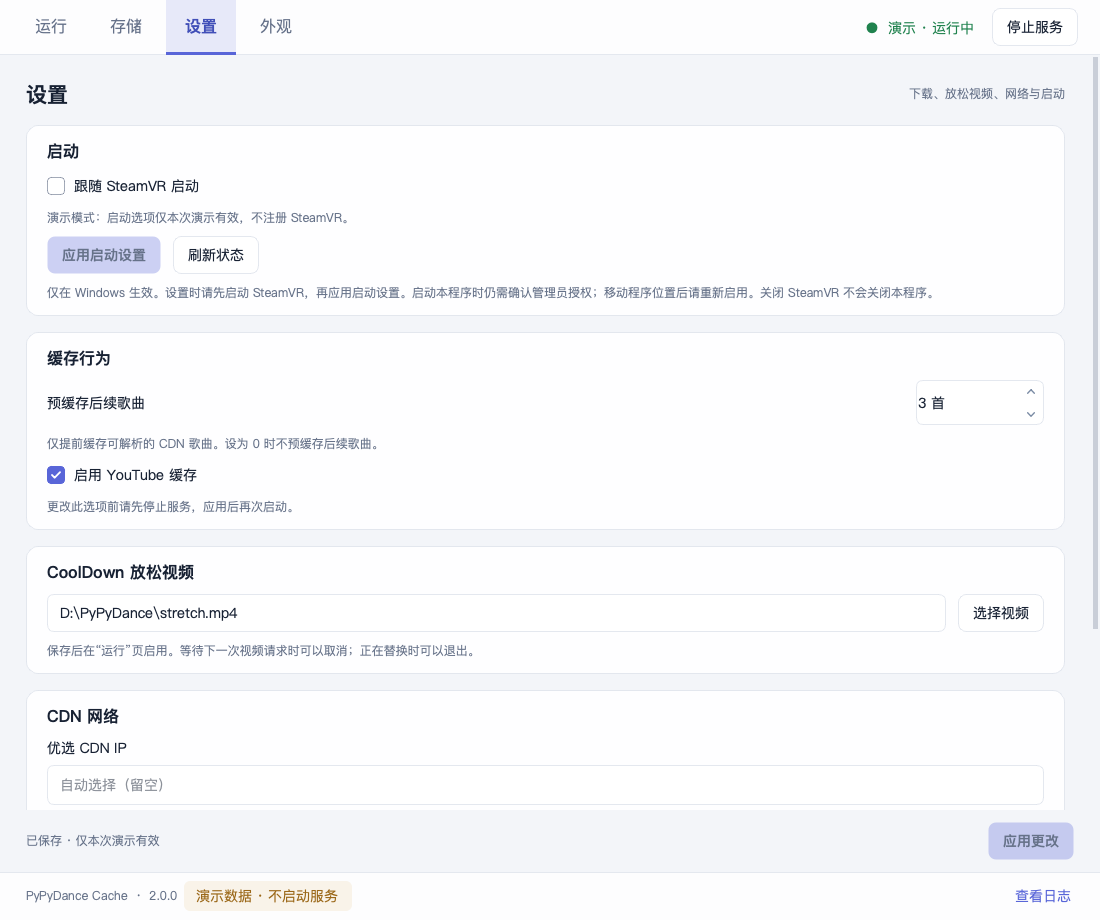
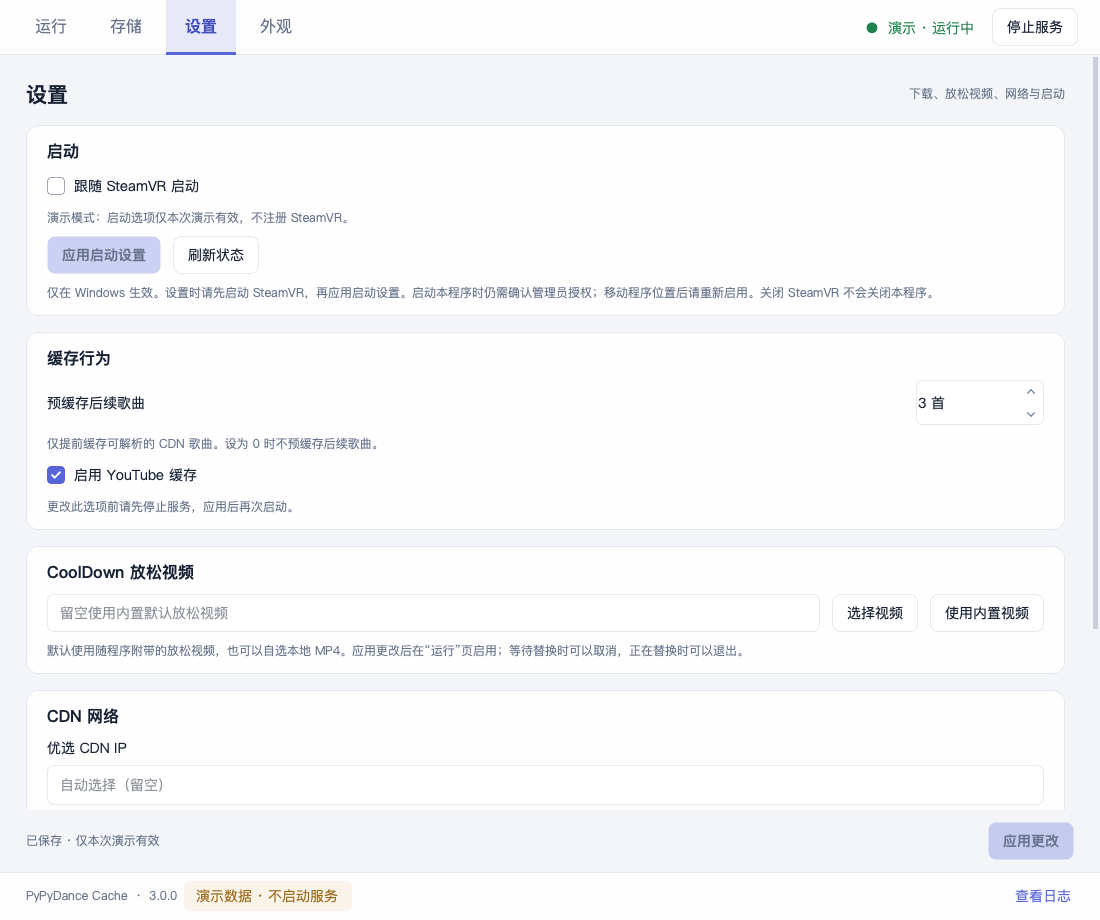
docs: rewrite Windows README with accurate fork comparison [skip ci]

Changed region(s): [[0.0309, 0.7, 0.68, 0.7304], [0.0618, 0.6391, 0.2164, 0.6696], [0.7727, 0.6391, 0.8964, 0.6696]]

diff --git a/README.md b/README.md
@@ -1,170 +1,163 @@
-# PyPyDance Cache 3.0.0
+# PyPyDance Cache · Windows 版
 
 <img src="assets/app-icon.png" width="96" alt="PyPyDance Cache PY 图标">
 
-VRChat PyPyDance 跳舞房视频本地缓存工具，面向 Windows。保留原有缓存核心与命令行入口，使用 Qt for Python 重构桌面界面。
+为 VRChat 的 PyPyDance 跳舞房提供本地视频缓存、队列预加载和永久曲库管理。**本软件仅支持 Windows x64。**
 
-**原作者：Bilibili @鲨鲨比亚Sharkspeare**
+本 Fork 基于 [oreochromis/pypydance-video-cache](https://github.com/oreochromis/pypydance-video-cache) 继续开发，原作者为 **Bilibili @鲨鲨比亚Sharkspeare**。保留原有 Python 缓存核心与命令行入口，使用 Qt for Python 重构桌面界面，并增加日常使用功能。
 
-**上游：[oreochromis/pypydance-video-cache](https://github.com/oreochromis/pypydance-video-cache)**
+**[下载 v3.0.0 正式版](https://github.com/Xiaoyu12-CPU/pypydance-video-cache/releases/tag/v3.0.0)** · **[直接下载 Windows x64 ZIP](https://github.com/Xiaoyu12-CPU/pypydance-video-cache/releases/download/v3.0.0/PyPyDanceCache-windows-x64.zip)**
 
-**当前 fork：[Xiaoyu12-CPU/pypydance-video-cache](https://github.com/Xiaoyu12-CPU/pypydance-video-cache)**
+## 下载与使用
 
-开发基线：上游提交 `5efd712073d696e180ffeedfbfe51afd293f702e`。
+1. 下载 `PyPyDanceCache-windows-x64.zip`，将整个 `PyPyDanceCache` 文件夹解压到当前账户可写的目录。
+2. 双击 `PyPyDanceCache.exe`，确认 Windows 管理员授权。程序启动后会自动开启缓存服务，无需安装 Python。
+3. 服务显示运行中后，进入 VRChat 的 PyPyDance 房间正常点歌。
+4. 根据需要，在“存储”页设置永久曲库，在“设置”页调整预加载数量和 CDN，在“外观”页调整主题。
+5. 使用结束后正常关闭窗口，程序会停止服务并尝试还原本程序添加的 hosts 设置。若提示恢复失败，请保留窗口和日志，按提示重试。
 
-原理参考：
+**必须保留 exe 旁的 `_internal` 等全部文件，不能只复制 exe。**默认放松视频、程序图标及运行依赖都在完整目录中。程序未签名，管理员授权窗口可能显示未知发布者。
 
-- [kiyonya/why-my-dance-video-cannot-play](https://github.com/kiyonya/why-my-dance-video-cannot-play)
-- [wzhqwq/VRCDancePreloader](https://github.com/wzhqwq/VRCDancePreloader)
+只想先看界面，可以双击 `打开演示.bat`。演示使用示例数据，不启动真实缓存服务、不修改 hosts，也不接入 VRChat。
 
-## 界面与功能
+## 相比 Fork 前更新了什么？
 
-四个页面将日常状态、文件保存和个性化选项分开，顶部保留服务状态与启停入口。
+对比基线为原项目的 [V1.2 源码提交 `5efd712`](https://github.com/oreochromis/pypydance-video-cache/tree/5efd712073d696e180ffeedfbfe51afd293f702e)，当前版本为本 Fork 的 `v3.0.0`。
 
-| 页面 | 内容 |
+原版已经具备本地缓存、队列预加载、永久曲库、YouTube 源缓存、CDN 测速、曲库维护和 Cool Down。本 Fork 在这些能力上继续改进，主要变化如下：
+
+| 项目 | Fork 前 | 当前版本 |
+| --- | --- | --- |
+| 桌面界面 | tkinter 单窗口，设置、队列、下载和日志集中展示 | Qt for Python 重构，分为“运行／存储／设置／外观”四页 |
+| 外观设置 | 基础控件样式 | 默认浅蓝布局，支持深色、自定义主题、背景、透明度、缩放和密度，自动保存到本机 |
+| CDN 优选 | 已有快速测速、扩大范围抽样测速及推荐 IP | 列表展示结果，可自行选择使用；新增本机常用 CDN 收藏，支持去重、保留和删除 |
+| SteamVR 联动 | 手动打开程序 | 新增“跟随 SteamVR 启动”选项，保留管理员授权流程 |
+| Cool Down | 已有功能，需要自行选择放松视频 | 随包提供默认视频，保留自选能力，并提供切回内置视频的入口 |
+| 运行信息 | 已有歌曲队列、下载进度、速度和日志 | 分开呈现歌曲、下载及服务状态，补充失败、取消和恢复提示，支持复制、导出日志 |
+| 设置保存 | 在原窗口中编辑并保存 | 草稿与应用分离，加强参数校验、保存失败提示及目录保护，避免测速操作顺带提交其他设置 |
+| 程序图标 | 原有图标 | 新 PY 对话框图标，覆盖应用、窗口及 Windows exe，提供七种图标尺寸 |
+| 构建与分发 | 原有单文件 exe 打包方式 | 完整目录 ZIP，附 SHA-256 与构建报告，发布前执行自动测试和实际打包程序检查 |
+
+新版 GUI 使用 Qt、Pillow 和 OpenVR 等依赖，分发方式改为完整目录包；原有命令行缓存入口继续保留。
+
+## 当前界面
+
+下图使用程序的演示数据，默认采用浅蓝布局。
+
+![运行页](docs/screenshots/run-light.png)
+
+其他页面：[存储](docs/screenshots/storage.png) · [设置](docs/screenshots/settings.png) · [外观](docs/screenshots/appearance.png) · [深色界面](docs/screenshots/run-dark.png)
+
+| 页面 | 主要用途 |
 | --- | --- |
-| **运行** | 最近识别的歌曲队列、缓存任务与结果、Cool Down 放松操作、诊断与日志 |
-| **存储** | 临时缓存容量、永久曲库目录与来源开关、目录入口、映射重建和文件大小检查 |
-| **设置** | 预加载数量、YouTube 源缓存、网络测速与优选 IP、放松视频配置 |
-| **外观** | 浅色/深色与自定义主题、背景图片、配色、界面缩放与密度 |
+| 运行 | 查看歌曲队列、下载任务、缓存结果、服务状态、Cool Down 和日志 |
+| 存储 | 设置临时缓存与永久曲库，管理保存规则，重建映射和检查视频大小 |
+| 设置 | 调整预加载、YouTube 缓存、CDN 优选、默认放松视频和 SteamVR 联动 |
+| 外观 | 调整浅色／深色主题、自定义配色、背景、透明度、缩放和密度 |
 
-业务配置编辑后通过**应用更改**提交。修改 YouTube 缓存开关或保存目录前，需要先停止服务；修改目录时还需等待后台下载和曲库任务结束。应用后再次启动服务。外观调整立即预览并自动保存，与业务配置分开。
+## 常用功能
 
-正式版默认使用浅蓝布局，提供浅色、深色和自定义主题。主题配色、背景导入、透明度、缩放和密度继续可用，个人调整保存在本机。
+### 本地缓存与永久曲库
 
-为减小下载体积，正式版不再附带“小余12主题”和原背景。升级保留已有主题配置和个人导入图片；若旧主题的背景仅来自测试包资源且本机没有副本，将回退到主题底色，可重新导入背景。
+视频请求命中本地缓存时，直接从硬盘提供；未命中时回源下载，并按配置尝试缓存。程序读取 VRChat 日志中的歌曲队列，提前准备可解析的 CDN 歌曲。
 
-## 下载正式版
+需要长期保留视频时，在“存储”页填写曲库目录，并开启对应来源的永久保存。符合条件的视频会按歌曲编号保存，例如 `3528.mp4`。改变曲库目录只影响后续保存位置，不会自动搬迁已有文件。
 
-前往 [v3.0.0 正式版](https://github.com/Xiaoyu12-CPU/pypydance-video-cache/releases/tag/v3.0.0)，下载 **PyPyDanceCache-windows-x64.zip**，完整解压并运行其中的 `PyPyDanceCache.exe`，无需安装 Python。保留同目录的 `_internal` 和说明文件。
+YouTube 源缓存依赖 VRChat 日志中已经解析出的直链，在播放时尝试后台保存；不提供独立的 YouTube 解析，也不会仅凭歌曲队列提前下载 YouTube 视频。
 
-### 当前界面
+### CDN 测速与收藏
 
-下图由真实 Qt 界面的 `--demo` 数据生成。
+1. 打开“设置 → CDN 网络”，运行“快速测速”；需要更多候选时，可使用“扩大范围测速（抽样）”。
+2. 在结果列表中选择地址，点击“使用选中的 IP”，再点击“应用更改”。
+3. 点击“收藏选中的 IP”，即可加入本机“常用 CDN 收藏列表”。收藏重启后保留，可以选择使用或删除。
 
-![运行页 · 默认浅蓝布局](docs/screenshots/run-light.png)
+收藏操作独立保存，不会提交其他设置草稿。扩大范围测速采用抽样，不会穷举全部 CDN IP；收藏记录也不保证地址长期可用或始终最快，网络变慢时可重新测速。
 
-![外观页](docs/screenshots/appearance.png)
+### 跟随 SteamVR 启动
 
-更多画面：[浅色运行页](docs/screenshots/run-light.png)、[深色运行页](docs/screenshots/run-dark.png)、[存储页](docs/screenshots/storage.png)、[曲库维护](docs/screenshots/storage-maintenance.png)、[设置页](docs/screenshots/settings.png)。
+先打开 SteamVR，再在“设置 → 启动”中勾选“跟随 SteamVR 启动”，点击“应用启动设置”。之后启动 SteamVR 时会打开本程序，启动时仍需确认管理员授权。
 
-### 缓存行为
+取消勾选并应用即可关闭此功能。关闭 SteamVR 不会关闭本程序；移动程序目录后，请先关闭该选项并应用，再重新启用，以更新启动路径。
 
-- **本地优先：**请求的视频已有可用缓存时，从本地提供；未命中时回源，按原有策略尝试缓存。
-- **提前准备：**读取 VRChat 日志的点歌队列，处理当前歌曲及设定数量的后续 CDN 歌曲。界面观察队列，不控制房间播放或歌曲顺序。
-- **永久曲库：**选择目录并打开对应来源的永久保存开关后，后续符合条件的视频按歌曲编号保存。改变目录不会搬迁旧文件。
-- **YouTube 源：**从 VRChat 日志捕获游戏已解析的直链，在首次播放时尝试后台保存；不会仅凭队列提前解析 YouTube。
-- **网络优化：**可测试 CDN 节点并设置优选 IP。测速结果可加入本机“常用 CDN 收藏列表”，支持重启保留、选择使用和删除；使用后需应用更改。扩大范围测速采用抽样。
-- **跟随 SteamVR 启动：**在“设置 → 启动”中勾选并应用；首次设置请先运行 SteamVR。每次启动仍需确认 Windows 管理员授权，SteamVR 关闭后助手继续运行。
-- **Cool Down：**随包提供默认放松视频，配置留空即可使用；已有自选视频保留，可在设置页点击“使用内置视频”并应用更改。在运行页手动启用进入待命后，在符合条件的后续请求中替换本机画面。恢复根据后续视频请求判断，没有精确的播放结束计时。
-- **曲库维护：**重建编号映射、对比远端文件大小并报告异常；大小检查不会自动修复或批量重新下载。
+### Cool Down 放松视频
 
-## 先看界面：演示模式
+程序内置一段约 **3 分 16 秒**的默认放松视频，使用用户提供的原文件，未压缩或降低音频码率。
 
-Qt 图形界面需要 **Python 3.10 或更新版本**。在独立虚拟环境安装依赖，无需先激活环境：
+- 默认使用内置视频，也可以在“设置”页选择其他本地 MP4。
+- 已有自选视频设置会保留。需要切回默认时，点击“使用内置视频”并应用更改。
+- 在“运行”页手动启用 Cool Down 后进入待命，在符合条件的后续视频请求中替换本机画面。
+- 等待替换时可以取消，正在替换时可以退出。恢复由后续请求判断，没有精确的播放结束倒计时。
+
+Cool Down 只影响本机，不控制房间播放或其他玩家的画面。
+
+### 设置与外观保存
+
+“存储”和“设置”页需要点击“应用更改”；“外观”页即时预览并自动保存。修改保存目录、YouTube 缓存开关前，请先停止服务；修改目录还需等待活动下载和曲库任务结束。应用后再启动服务。
+
+正式版内置浅色和深色主题，不附带个人主题或大幅背景图片。升级保留本机已有外观配置和导入图片；若旧主题仅引用测试包中的背景而本机没有副本，会回退到主题底色，可以重新导入背景。
+
+## 升级与数据位置
+
+升级前正常退出程序，备份 `config.json`、`mapping.json` 和视频目录。将新版完整解压到独立目录，不要把新旧 `_internal` 混在一起；迁移配置时注意旧相对路径所指向的位置。
+
+| 数据 | 保存位置 |
+| --- | --- |
+| `config.json`、`mapping.json` | 与 exe 同级；源码运行时在项目目录 |
+| 临时缓存、永久曲库 | 由业务配置中的目录决定 |
+| 外观、个人背景、CDN 收藏、SteamVR 注册文件 | 当前 Windows 用户的应用数据目录 |
+| 演示外观与收藏 | 默认使用临时目录；显式指定 `--state-dir` 时保存在该目录 |
+
+更换程序目录不会自动搬迁曲库。只备份 exe 也不会包含配置、视频或个人外观数据。
+
+## 使用注意
+
+- 需要管理员权限，程序会接管相关视频域名，并使用本地 80／443 端口；443 端口不可用时，相关能力可能降级。
+- 不要与 VRCDancePreloader 等接管相同域名的工具同时运行。
+- 使用代理时，确保 `127.0.0.1` 的本地流量可以正常到达本机服务。
+- 曲库大小检查用于报告差异，不是视频内容哈希验证，不会自动修复或重新下载。
+- 强制结束进程、断电等异常退出可能需要额外检查 hosts；遇到问题请保留日志和构建报告。
+- 网络测速和缓存无法保证所有来源、运营商及网络环境都达到相同速度。
+
+## Windows 源码运行与打包
+
+需要 **Python 3.10 或更新版本**。建议使用独立虚拟环境，在项目目录的 PowerShell 中执行：
 
 ```powershell
 py -3.12 -m venv .venv
 .\.venv\Scripts\python.exe -m pip install -r requirements.txt
-.\.venv\Scripts\python.exe dance_cache_gui.py --demo
-```
-
-`py -3.12` 是示例，可替换为已安装、依赖支持的 Python 3.10+ 版本。
-
-**`--demo` 使用示例数据，不启动真实缓存服务、不修改 hosts，也不接入 VRChat。**未提供 `--state-dir` 时，演示使用临时外观状态目录，正常退出后清理，不覆盖个人主题。
-
-需要在多次演示间保留外观设置时：
-
-```powershell
-.\.venv\Scripts\python.exe dance_cache_gui.py --demo --state-dir .\.demo-state
-```
-
-`--state-dir` 指定界面本机状态目录（外观、CDN 收藏和 SteamVR 注册文件），不改变缓存、曲库、`config.json` 或 `mapping.json` 的位置。Linux/macOS 可使用对应虚拟环境的 `bin/python` 运行演示；真实缓存服务仍面向 Windows。
-
-### Mac 双击测试入口
-
-已在项目 `.venv` 安装依赖后，在 Finder 中双击 **`启动_Mac_UI测试.command`**。终端会启动当前源码的演示界面；关闭应用窗口结束测试。也可在项目目录执行 `./启动_Mac_UI测试.command`。
-
-入口固定使用 `--demo`，外观独立保存在 `.demo-state/mac-manual/`，关闭后再次双击可以检查主题、背景和阅读偏好的恢复。存储和设置页的“应用更改”只在本次演示有效，服务、下载、测速和维护使用模拟结果；不会修改真实业务配置或 hosts。
-
-人工检查可依次尝试四页切换与滚动、业务草稿切页保留和应用、外观撤销及主题切换、缩放与密度，然后关闭并重开检查外观保存。本入口用于本机 UI 体验，需要保留项目源码和 `.venv`；Windows + VRChat 与 exe 的验收仍独立进行。
-
-## 在 Windows 上使用真实服务
-
-在管理员终端运行：
-
-```powershell
 .\.venv\Scripts\python.exe dance_cache_gui.py
 ```
 
-正常启动会自动启动缓存服务。如需先检查配置、暂不启动：
+`py -3.12` 是示例，可使用依赖支持的其他 Python 版本。正常入口会请求所需权限并自动启动缓存服务；如需先查看真实配置，使用 `--no-autostart`。安全查看示例界面则使用 `--demo`。
 
 ```powershell
-.\.venv\Scripts\python.exe dance_cache_gui.py --no-autostart
-```
+# 演示界面，不启动真实服务
+.\.venv\Scripts\python.exe dance_cache_gui.py --demo
 
-`--no-autostart` 使用真实配置，之后点击启动会执行真实服务流程。需要隔离的示例界面时使用 `--demo`。
+# 原有命令行入口，仅使用 Python 标准库
+.\.venv\Scripts\python.exe dance_cache.py
 
-安装依赖后也可使用仓库的 `启动.bat`：优先打开已构建的 `PyPyDanceCache.exe`，否则使用项目虚拟环境或 PATH 中的 Python；命令行参数会转交给应用。
-
-正常关闭窗口会执行核心停止流程，停止服务并尝试还原本程序添加的 hosts 设置。强制终止进程、断电等异常退出不属于正常关闭流程。
-
-运行前确认：
-
-- 有执行真实服务所需的管理员权限。
-- 不与 VRCDancePreloader 等接管相同域名的工具同时运行。
-- 本地 80 端口可用；443 端口不可用时，相关能力可能降级。
-- 使用代理时，本机 `127.0.0.1` 流量仍能到达本地服务。
-
-**用户已反馈在 Windows 运行 VRChat 实际验证，软件能够正常工作。**这是发布前的用户人工反馈；未逐项提供结果的 SteamVR 跟随启动、hosts 恢复、YouTube 源、旧曲库迁移及不同缩放设置仍需按实际环境检查。自动化测试与演示检查单独记录。
-
-## 数据保存位置
-
-| 数据 | 位置与迁移规则 |
-| --- | --- |
-| `config.json` | 源码运行时在源码旁，打包后在 exe 旁 |
-| `mapping.json` | 同上；移动程序时与配置一起保留 |
-| 临时缓存与永久曲库 | 按业务配置中的目录保存；改变曲库目录不会搬迁旧视频 |
-| 外观与导入背景 | Qt `QStandardPaths.AppLocalDataLocation` 下的 `appearance` 目录，以当前系统实际路径为准 |
-| 演示外观状态 | 默认临时目录；指定 `--state-dir` 后使用并保留指定目录 |
-
-外观应用标识为组织 `Xiaoyu12-CPU`、应用 `PyPyDanceCache`。个人导入背景复制到外观数据目录，保留原图片；正式版不包含个人主题或预置背景图片。主题及背景与视频缓存分开。
-
-业务配置继续写在程序旁，请把程序放在适合当前账户读写的目录。仅备份 exe 不会包含配置、曲库和个人主题。
-
-## 保留的命令行入口
-
-```powershell
-python dance_cache.py
-```
-
-命令行仍使用原有标准库核心，不依赖 Qt 或 Pillow；真实运行同样需要 Windows 与相应权限。功能背景可查阅 [原版 V1.2 使用教程](https://github.com/oreochromis/pypydance-video-cache/blob/5efd712073d696e180ffeedfbfe51afd293f702e/使用教程.md)，其中旧界面位置、按钮名称和个别状态描述不适用于新界面，以本 README 和当前界面提示为准。
-
-## 自行构建 Windows 版
-
-`main` 与开发分支的 GitHub Actions 先运行完整隔离测试，再构建并打开冻结 exe 的演示模式，检查四页、默认浅蓝主题、SVG 控件图标、Pillow 背景渲染和 OpenVR DLL 加载。通过后提供完整目录 ZIP、SHA-256 和实际构建报告；正式发布由 `main` 的显式发布提交触发。使用和升级步骤见 [Windows 使用说明](docs/WINDOWS_PREVIEW.md)。
-
-在 Windows 原生 Python 环境执行：
-
-```powershell
+# 安装开发依赖、运行测试并生成 Windows 程序
 .\.venv\Scripts\python.exe -m pip install -r requirements-dev.txt
+.\.venv\Scripts\python.exe -m unittest discover -s tests -v
 .\build_windows.ps1 -Python .\.venv\Scripts\python.exe
 ```
 
-也可让脚本安装构建依赖：
+构建产物位于 `dist\PyPyDanceCache\`，分发时保留整个目录。也可使用 `启动.bat`，它会优先打开已构建的 exe，否则使用 Python 运行源码。
 
-```powershell
-.\build_windows.ps1 -Python .\.venv\Scripts\python.exe -InstallDependencies
-```
+## 验证与问题反馈
 
-产物位于 `dist\PyPyDanceCache\`，启动文件为 `PyPyDanceCache.exe`。**分发完整目录，包括 `_internal`，不要只复制 exe。**当前采用 PyInstaller `onedir`，便于查看 Qt 依赖和随包说明。
+[v3.0.0 的 Windows 构建](https://github.com/Xiaoyu12-CPU/pypydance-video-cache/actions/runs/39044770399)完成 **148 项自动化测试，失败 0、错误 0、跳过 0**，并实际启动打包后的演示程序，检查界面、资源、默认视频及 exe 内嵌图标。下载附件与包内 `docs/build-info.json` 记录对应提交和验证结果。
 
-打包 exe 带有管理员权限清单，启动时请求 UAC 提权，包括带 `--demo` 参数的启动。演示仍不会启动真实服务；需要无需提权地检查 UI 时，从源码运行 `--demo`。
+用户已反馈此前版本在 Windows + VRChat 中正常工作。自动化检查与用户反馈分别记录，不代表所有网络、视频源、旧曲库迁移和 SteamVR 联动场景都已逐项验收。
 
-构建细节、验证范围与数据兼容约束见 [开发说明](docs/DEVELOPMENT.md)，本次测试结果见 [验证记录](docs/VALIDATION.md)。
+反馈问题时，请附上版本号、操作步骤、错误提示、运行日志、网络或代理情况，以及是否使用旧配置或旧曲库。
 
-## 许可
+## 来源与许可
 
-本项目沿用 [MIT License](LICENSE)，保留原作者的版权声明。
+- 原作者：Bilibili **@鲨鲨比亚Sharkspeare**。
+- 上游项目：[oreochromis/pypydance-video-cache](https://github.com/oreochromis/pypydance-video-cache)。
+- 本 Fork：[Xiaoyu12-CPU/pypydance-video-cache](https://github.com/Xiaoyu12-CPU/pypydance-video-cache)。
+- 原理参考：[加载失败分析](https://github.com/kiyonya/why-my-dance-video-cannot-play)、[VRCDancePreloader](https://github.com/wzhqwq/VRCDancePreloader)。
 
-Qt for Python、Pillow 和构建工具使用各自的许可。Windows 构建脚本将已安装依赖中可发现的许可/声明文件复制到产物的 `THIRD_PARTY_LICENSES`，分发时保留与实际依赖版本一致的材料。
+项目代码沿用 [MIT License](LICENSE)，保留原作者版权与署名。Qt for Python、Pillow、OpenVR 等依赖使用各自许可，Windows 分发包内的 `THIRD_PARTY_LICENSES` 提供相应声明。
